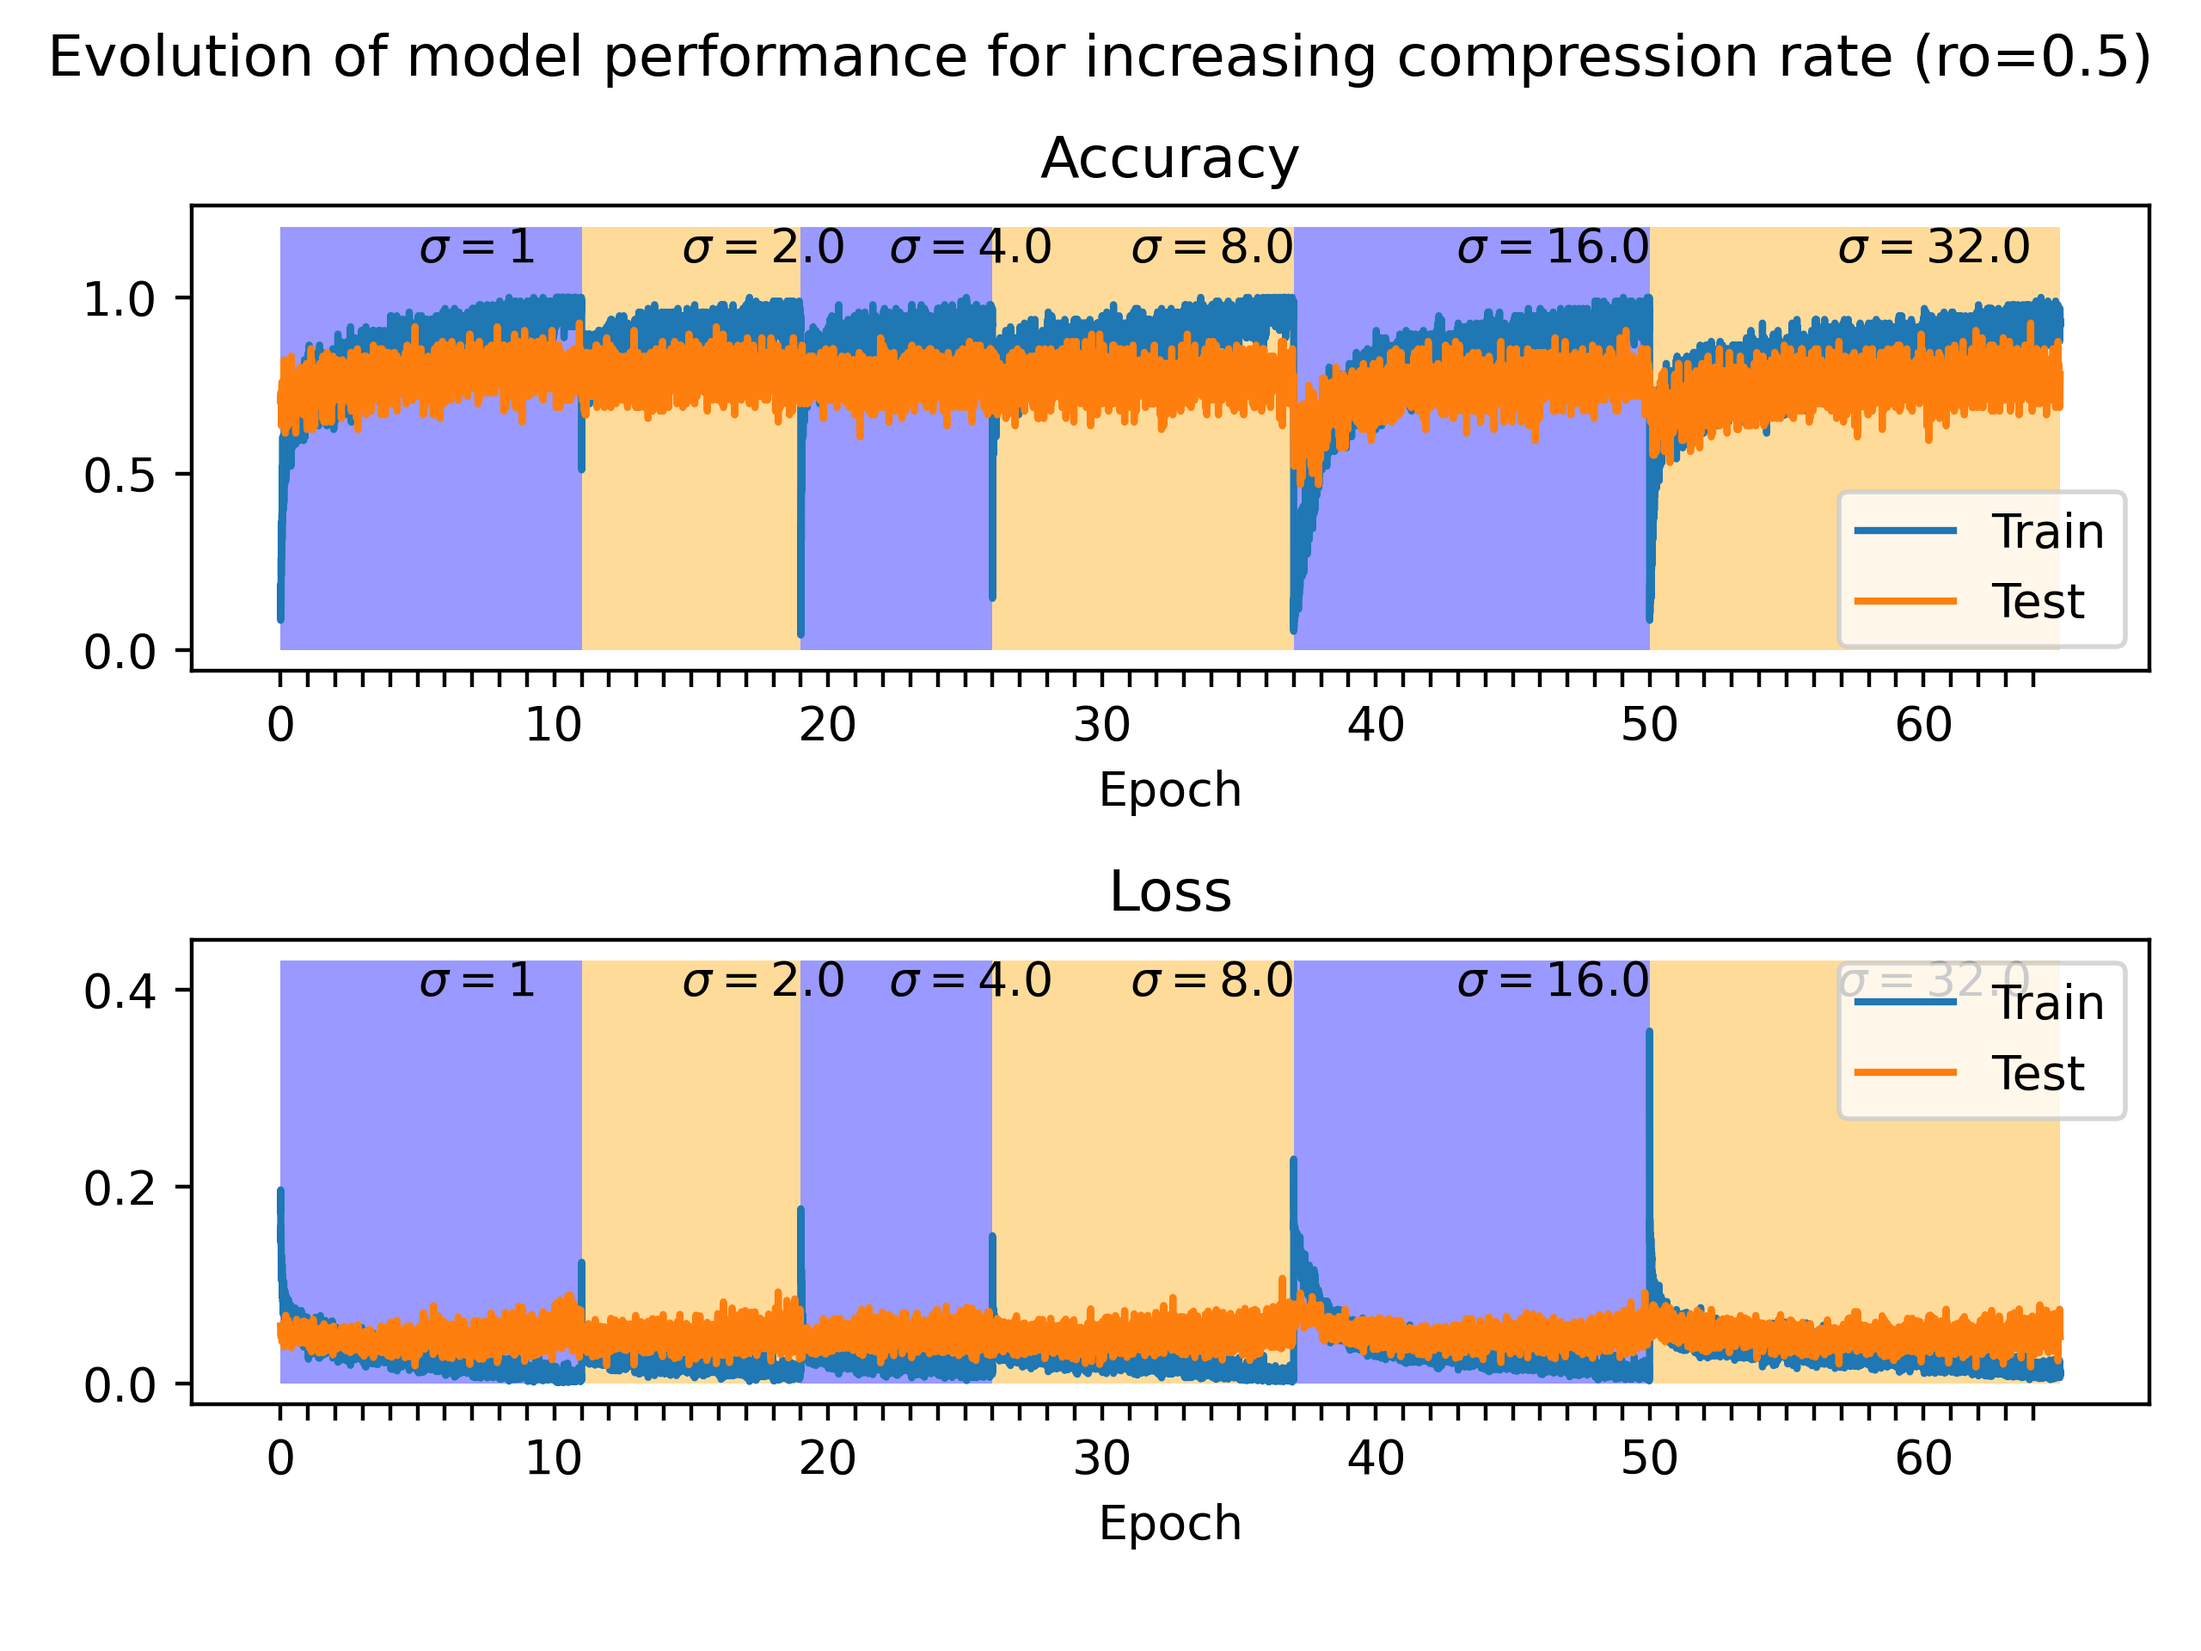
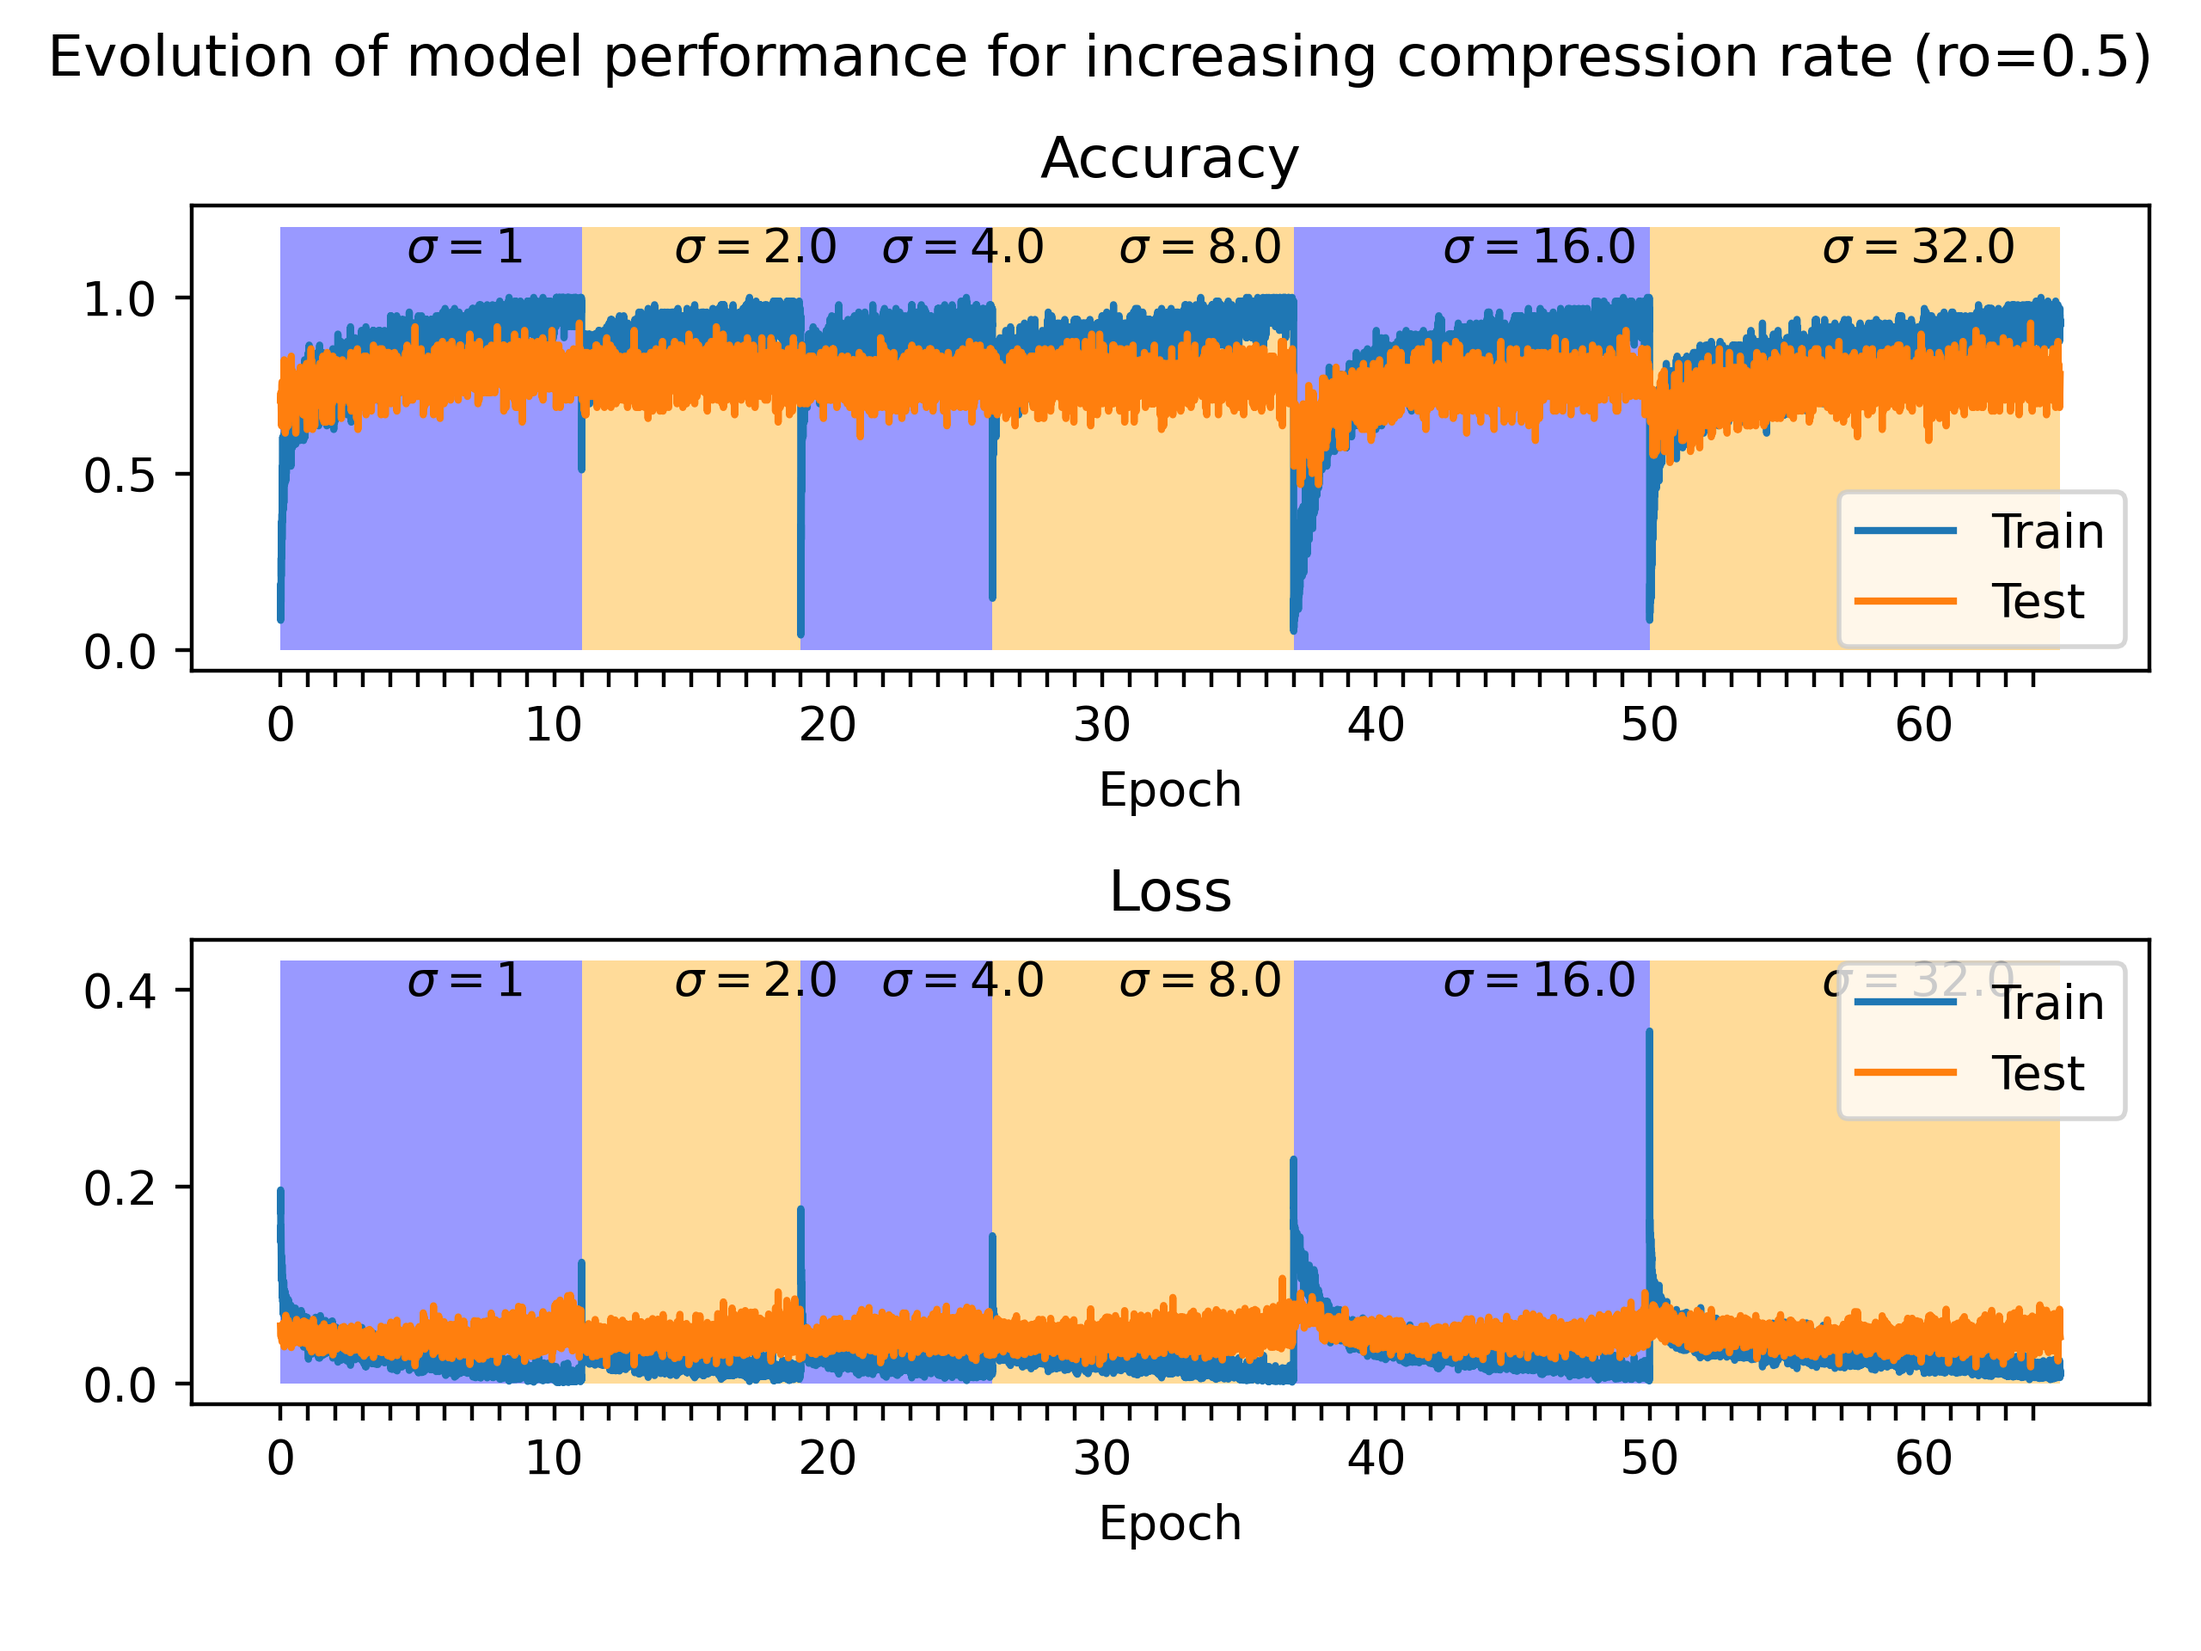
enum

diff --git a/src/viz.py b/src/viz.py
@@ -33,7 +33,7 @@ def visualize_loss_acc(opt, allLosses, allAccs, epochLengths, compRates = None):
 			ax.add_patch(rect)
 
 			if compRates is not None:
-				ax.text(xPrev + compressionSizeLen / 2.4,(1.1 if axIndex == 0 else maxLoss*1.1), s = r"$\sigma=$"+str(compRates[compRateIndex]))
+				ax.text(xPrev + compressionSizeLen / 2.8,(1.1 if axIndex == 0 else maxLoss*1.1), s = r"$\sigma=$"+str(compRates[compRateIndex]))
 
 		xPrev += compressionSizeLen
 		trainAcc.extend(allAccs[compRateIndex]["train"])
